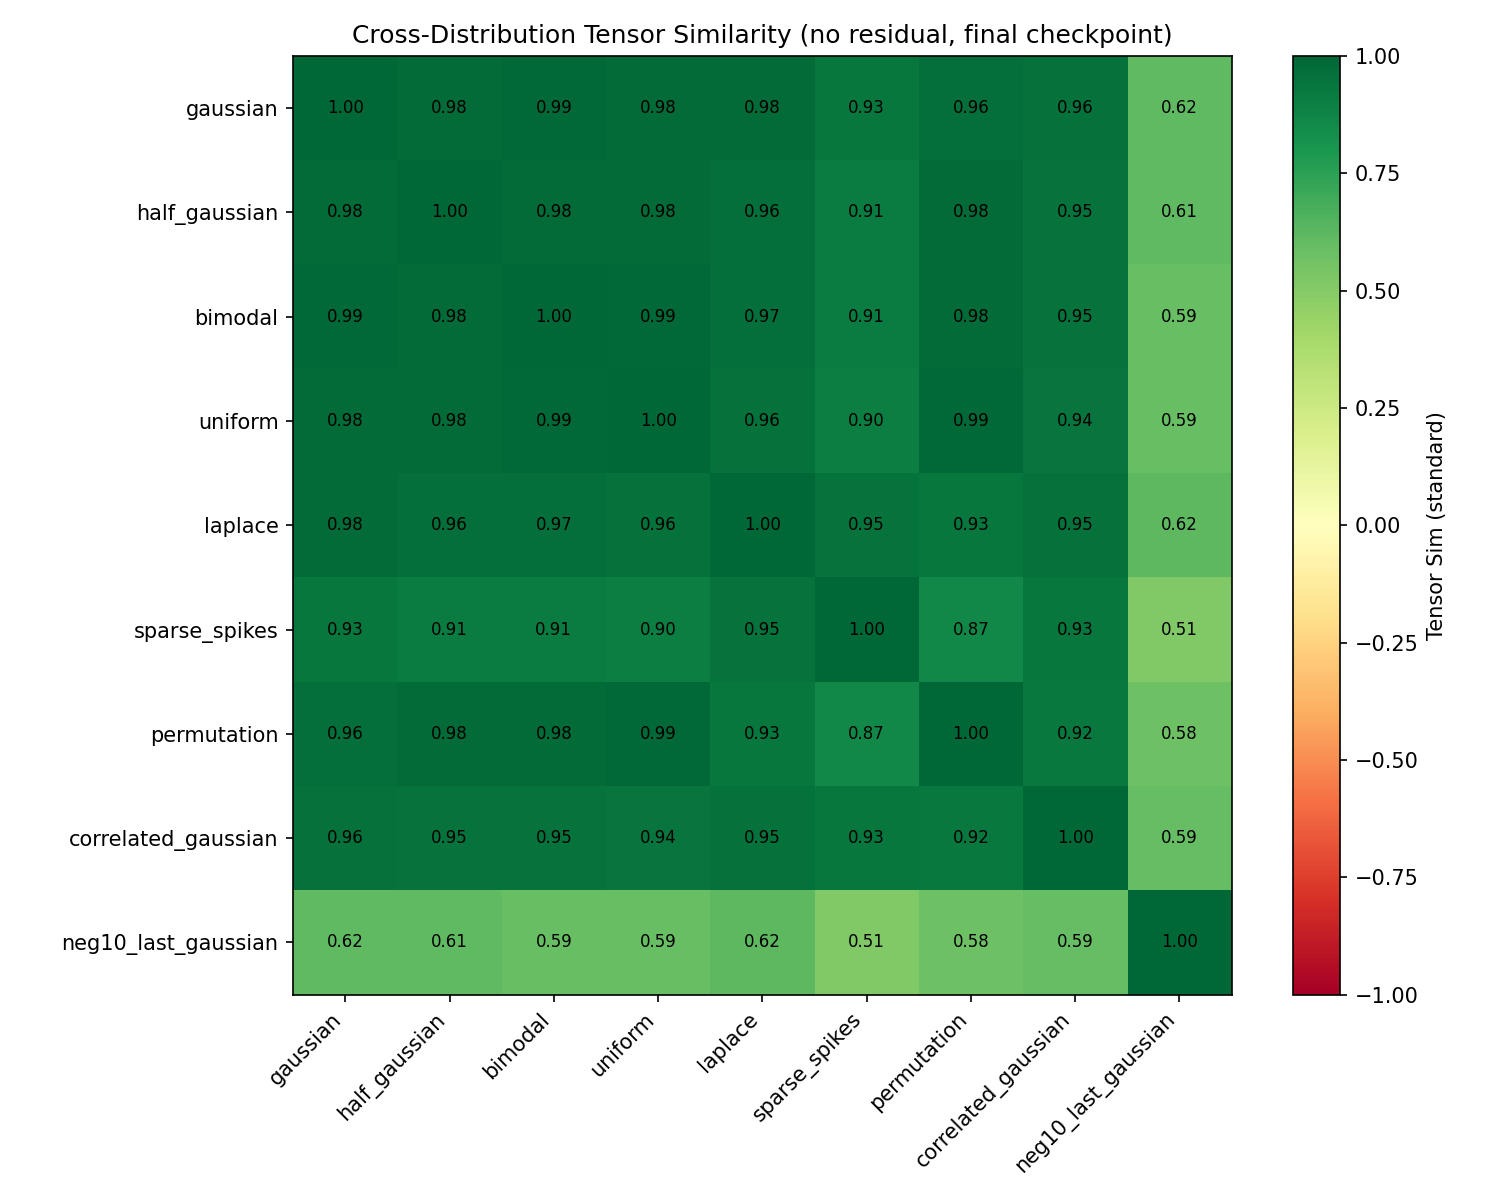
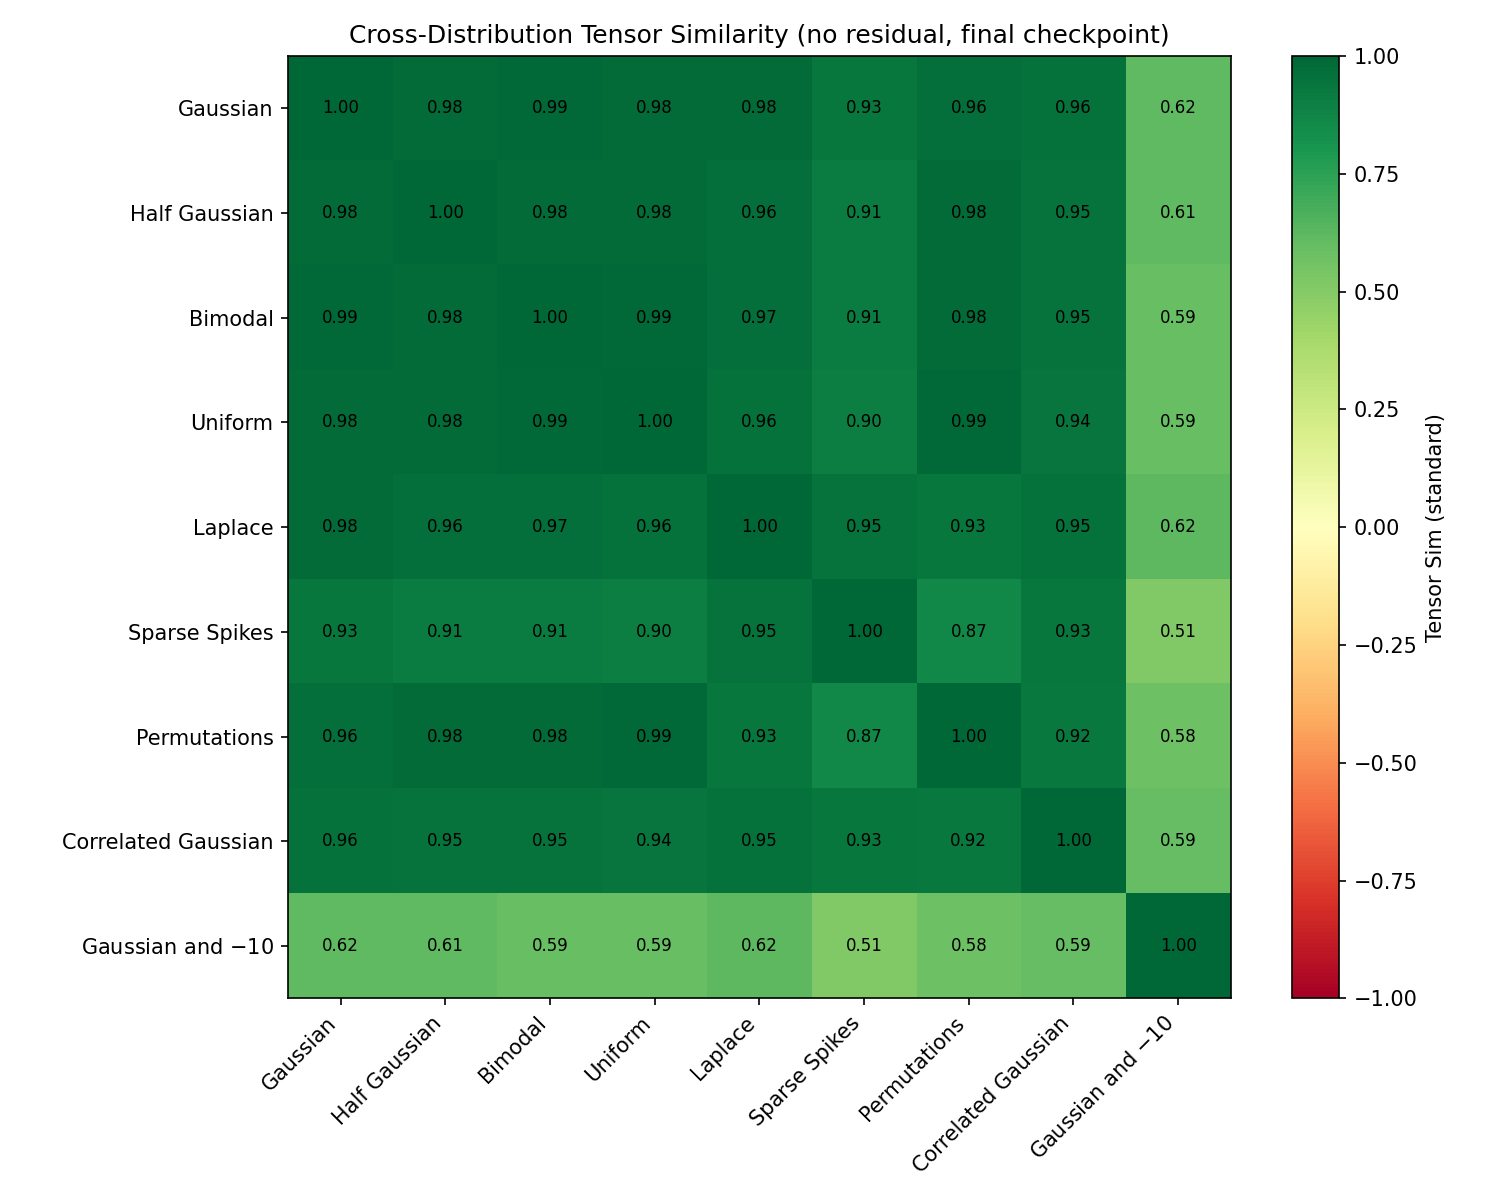
Update distribution labels in plots to match paper terminology

diff --git a/workspaces/jacob/tensor_similarity_distribution_robustness/plot.py b/workspaces/jacob/tensor_similarity_distribution_robustness/plot.py
@@ -14,6 +14,18 @@ import matplotlib.pyplot as plt
 
 RESULTS_DIR = 'results_neg10_no_residual'
 
+DIST_LABELS = {
+    'gaussian':            'Gaussian',
+    'half_gaussian':       'Half Gaussian',
+    'bimodal':             'Bimodal',
+    'uniform':             'Uniform',
+    'laplace':             'Laplace',
+    'sparse_spikes':       'Sparse Spikes',
+    'permutation':         'Permutations',
+    'correlated_gaussian': 'Correlated Gaussian',
+    'neg10_last_gaussian': 'Gaussian and $-10$',
+}
+
 with open(os.path.join(RESULTS_DIR, 'results.json')) as f:
     data = json.load(f)
 
@@ -53,7 +65,7 @@ for idx, dist_name in enumerate(dist_names):
                alpha=0.3, s=8, color='C1', label='same-step')
 
     r_val, _ = stats.pearsonr(ts, fs)
-    ax.set_title(f'{dist_name}\nr={r_val:.3f}')
+    ax.set_title(f'{DIST_LABELS[dist_name]}\nr={r_val:.3f}')
     ax.set_xlabel('Tensor Sim (standard)')
     ax.set_ylabel('Func Sim (train dist)')
     ax.grid(True, alpha=0.3)
@@ -85,7 +97,7 @@ width = 0.35
 ax.bar(x - width/2, r_standard, width, label='Standard (Sigma=I)')
 ax.bar(x + width/2, r_generalized, width, label='Generalized (Sigma=estimated)')
 ax.set_xticks(x)
-ax.set_xticklabels(dist_names, rotation=45, ha='right')
+ax.set_xticklabels([DIST_LABELS[d] for d in dist_names], rotation=45, ha='right')
 ax.set_ylabel('Pearson r (tensor sim vs func sim)')
 ax.set_title('Standard vs Generalized Tensor Similarity — No Residual, 1 Layer')
 ax.legend()
@@ -104,7 +116,7 @@ for ax, dname, color in [(axes[0], 'gaussian', 'C0'), (axes[1], 'neg10_last_gaus
     fs = [r['func_sim_train'] for r in rows]
     r_val, _ = stats.pearsonr(ts, fs)
     ax.scatter(ts, fs, alpha=0.3, s=8, color=color)
-    ax.set_title(f'{dname}\nStandard r={r_val:.3f}')
+    ax.set_title(f'{DIST_LABELS[dname]}\nStandard r={r_val:.3f}')
     ax.set_xlabel('Tensor Sim (standard)')
     ax.set_ylabel('Func Sim (train dist)')
     ax.grid(True, alpha=0.3)
@@ -124,7 +136,7 @@ for idx, dist_name in enumerate(dist_names):
         accs = accuracies[(dist_name, seed)]
         steps = sorted(accs.keys())
         ax.plot(steps, [accs[s] for s in steps], alpha=0.5, marker='o', markersize=3)
-    ax.set_title(dist_name)
+    ax.set_title(DIST_LABELS[dist_name])
     ax.set_xlabel('Step')
     ax.set_ylabel('Accuracy')
     ax.set_xscale('symlog', linthresh=1)
@@ -158,8 +170,8 @@ fig, ax = plt.subplots(figsize=(10, 8))
 im = ax.imshow(cross_matrix, cmap='RdYlGn', vmin=-1, vmax=1)
 ax.set_xticks(range(n_dists))
 ax.set_yticks(range(n_dists))
-ax.set_xticklabels(dist_names, rotation=45, ha='right')
-ax.set_yticklabels(dist_names)
+ax.set_xticklabels([DIST_LABELS[d] for d in dist_names], rotation=45, ha='right')
+ax.set_yticklabels([DIST_LABELS[d] for d in dist_names])
 for i in range(n_dists):
     for j in range(n_dists):
         ax.text(j, i, f'{cross_matrix[i, j]:.2f}', ha='center', va='center', fontsize=8)
